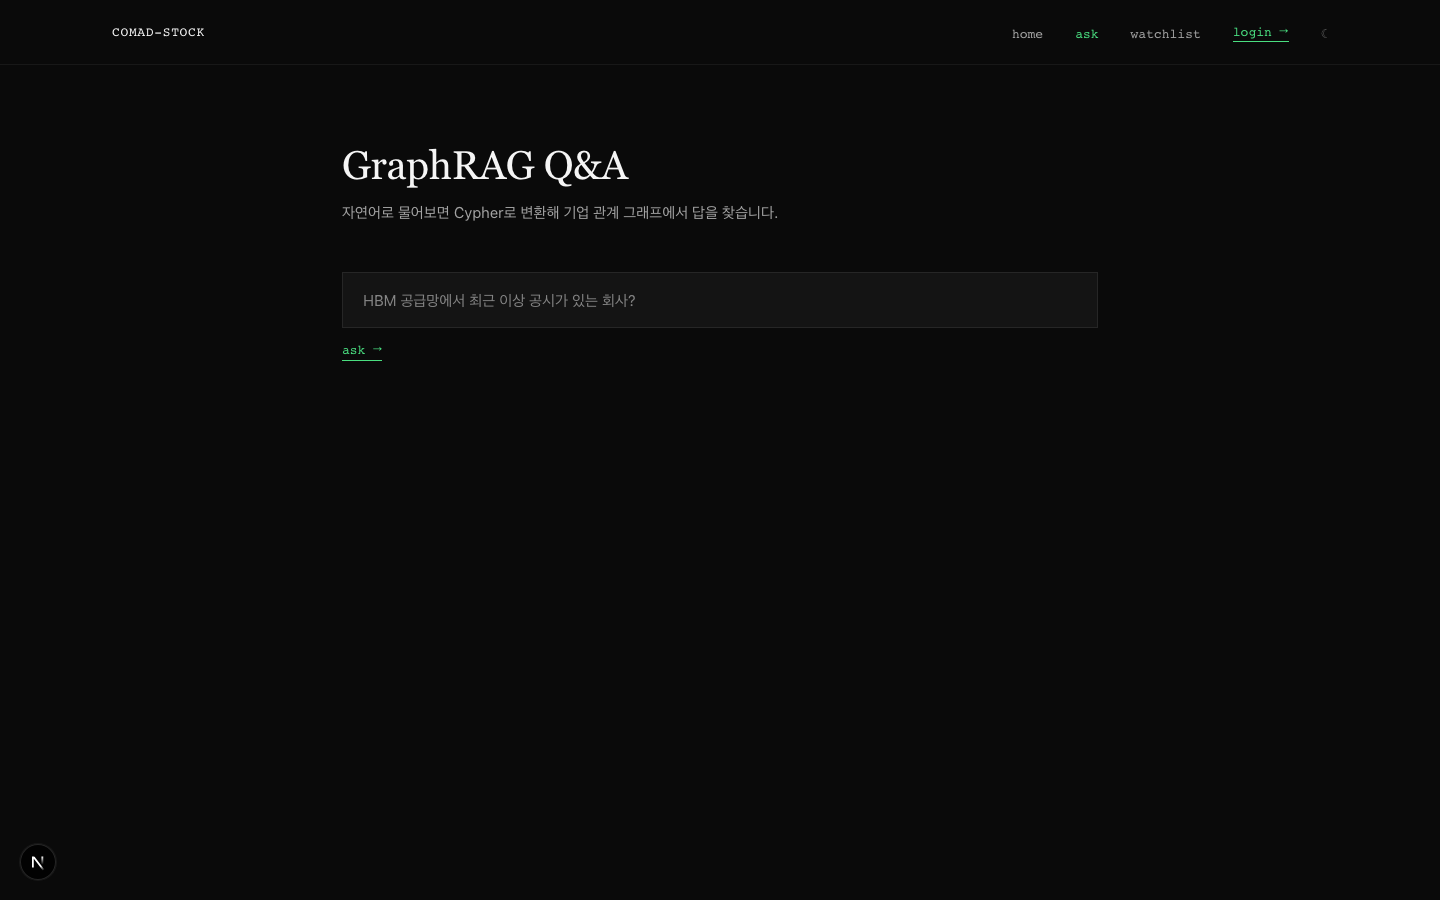
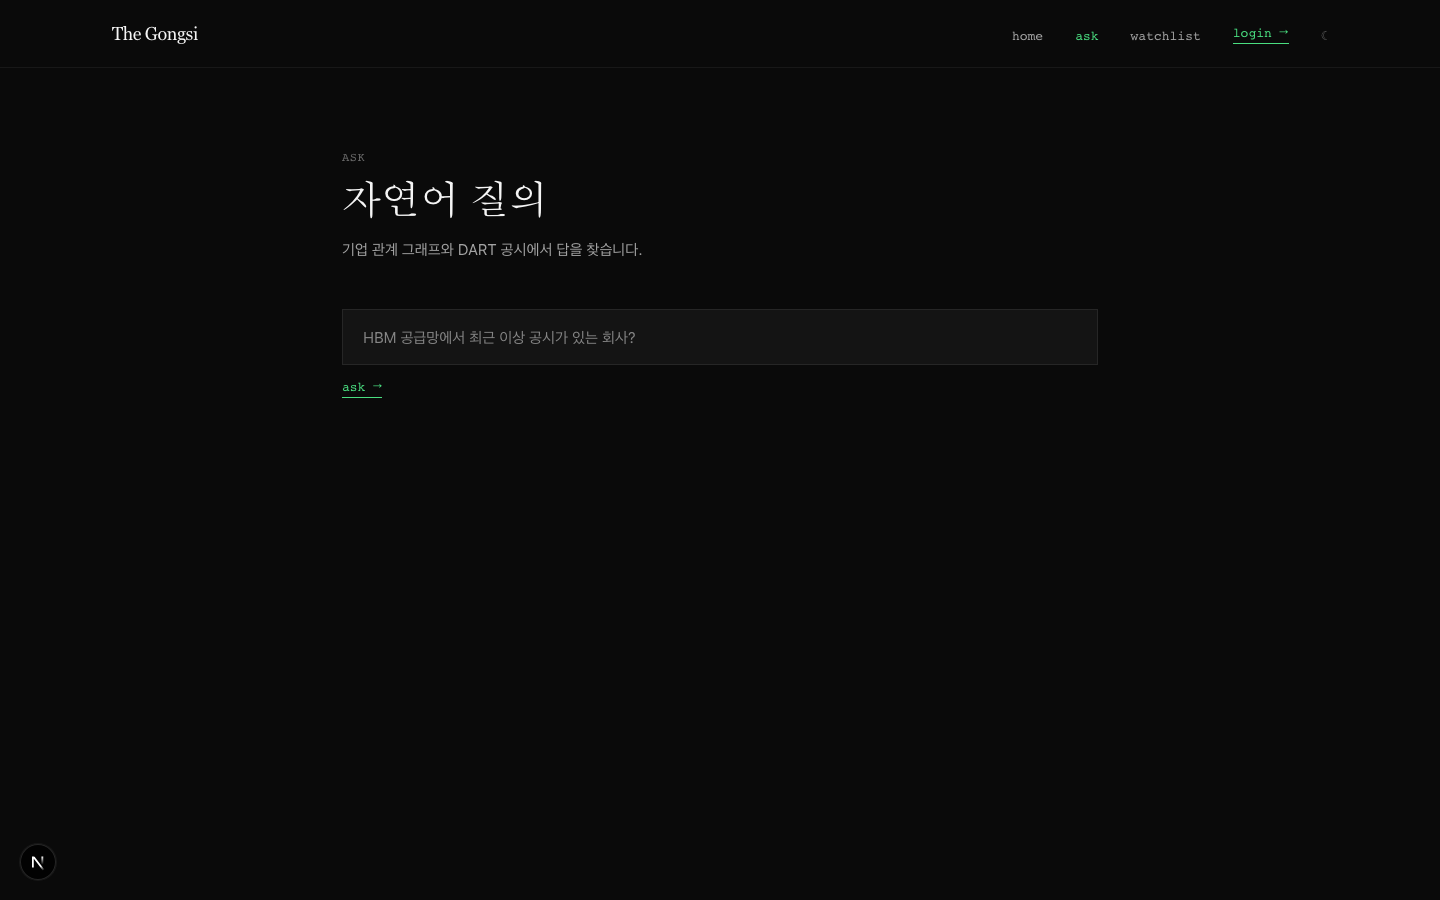
fix(nav): unify terminology — 'ask' everywhere
User 지적: landing 'try Q&A' + nav 'ask' + page 'GraphRAG Q&A' 불일치.

변경:
- landing CTA: 'try Q&A →' → 'try ask →'
- /ask page: 'GraphRAG Q&A' 제목 → 'ASK · 자연어 질의' editorial
- landing feature: 'GraphRAG' 라벨 → 'Ask', value 'hybrid' 반영

이제 사용자 journey: CTA 'try ask →' → nav 'ask' → page 'ASK · 자연어 질의'
일관된 editorial 톤. GraphRAG 기술명은 근거 세부(뒤)에서만 사용.

diff --git a/frontend/src/app/page.tsx b/frontend/src/app/page.tsx
@@ -18,7 +18,7 @@ export default function Home() {
 
         <div className="mt-16 flex items-center gap-6 text-[14px]">
           <a href="/ask" className="mono border-b border-accent text-accent hover:bg-accent-dim hover:text-fg px-1 py-0.5 transition-colors">
-            try Q&amp;A →
+            try ask →
           </a>
           <span className="text-fg-3 mono">MIT · BYOK · self-hostable</span>
         </div>
@@ -52,7 +52,7 @@ export default function Home() {
       <section className="border-t border-border/50">
         <div className="mx-auto max-w-[1080px] px-8 py-24 grid grid-cols-1 md:grid-cols-3 gap-12">
           <Feature label="DART 공시" value="전수 수집 · 한국어 요약 · severity 플래그" />
-          <Feature label="GraphRAG" value="자연어 → Cypher → 한국어 답변 · 2-hop" />
+          <Feature label="Ask" value="자연어 질의 · 그래프 + 공시 hybrid" />
           <Feature label="DD 메모" value="bull / bear / thesis · 버전 히스토리" />
         </div>
       </section>

diff --git a/frontend/src/app/ask/page.tsx b/frontend/src/app/ask/page.tsx
@@ -38,9 +38,12 @@ export default function AskPage() {
 
   return (
     <main className="mx-auto max-w-[820px] px-8 py-20">
-      <h1 className="font-serif text-[40px] leading-none tracking-[-0.01em]">GraphRAG Q&amp;A</h1>
+      <p className="mono text-[12px] text-fg-3 uppercase tracking-wider">ASK</p>
+      <h1 className="mt-3 font-serif text-[40px] leading-[1.1] tracking-[-0.01em]">
+        자연어 질의
+      </h1>
       <p className="mt-4 text-[15px] text-fg-2">
-        자연어로 물어보면 Cypher로 변환해 기업 관계 그래프에서 답을 찾습니다.
+        기업 관계 그래프와 DART 공시에서 답을 찾습니다.
       </p>
 
       <form onSubmit={submit} className="mt-12">
